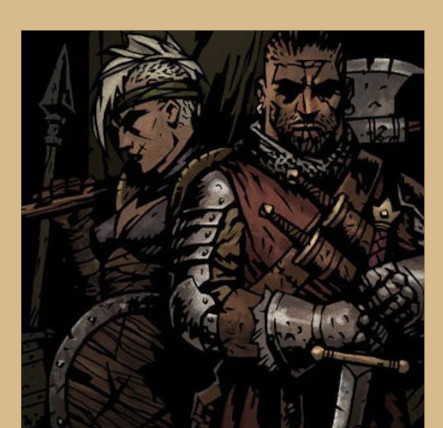
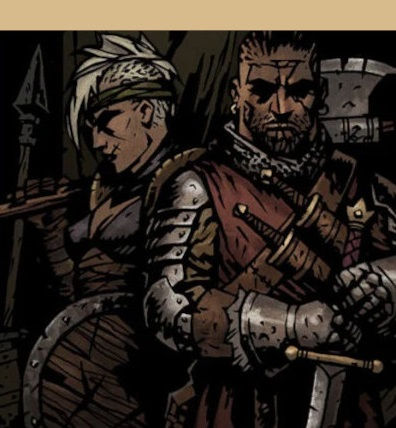
Small Responsive Corrections

diff --git a/Atividade4/style.css b/Atividade4/style.css
@@ -2,6 +2,8 @@
 {
     margin: 0;
     padding: 0;
+	max-width: 100%;
+    overflow-x: hidden;
 }
 
 html
@@ -10,12 +12,13 @@ html
     color: white;
     text-align: center;
     background-color: #d8bb8c;
+	padding: 0.5rem;
 }
 
 .logo {
     width: 4rem;
     height: 4rem;
-    padding: 2rem 0;
+    padding: 2rem 1rem;
     top: 0;
     left: 0;
 }
@@ -27,18 +30,13 @@ header
     flex-wrap: wrap;
 }
 
-body
-{
-    gap: 0;
-}
-
 .banner
 {
     width: 90%;
     height: 90%;
     object-fit: cover;
     object-position: bottom;
-    margin-bottom: 4rem;
+    margin-bottom: 3rem;
     border-radius: 5px;
 }
 
@@ -48,6 +46,7 @@ a
     color: #080808;
     cursor: pointer;
 }
+
 
 .container, .ad
 {
@@ -59,14 +58,10 @@ a
     .column {
       width: 50%;
     }
-    .container, .ad
+    .container, .ad, footer
     {
         flex-wrap: wrap;
         justify-content: center;
-    }
-    aside
-    {
-        width: 200%;
     }
 
   }
@@ -78,20 +73,32 @@ a
     gap: 2rem;
     justify-content: center;
     margin-bottom: 3rem;
+	padding: min(15px, 7%);
 }
 
 .ad 
 {
-    padding: 1rem 0.5rem;
+	justify-content: center;
+	align-content: center;
+	width:100%;
+	object-fit: cover;
+    object-position: bottom;
+}
+
+.divulgacao
+{
+	padding: 0.5rem;
+	align-content: center;
+	text-align; center:
 }
 
 h1, h2
 {
     margin: 30px 0;
     text-align: center;
-    -webkit-text-stroke-width: .3px;
-    -webkit-text-stroke-color: black;
+	color: #080808;
     margin: 2.8rem 0;
+	text-decoration: underline;
 }
 
 .card
@@ -129,10 +136,15 @@ aside p
     text-align: center;
 }
 
+.img-ad
+{
+	width: 100%;
+}
+
 .img-aside
 {
-    width: 10rem;
-    height: 10rem;
+    width: 5rem;
+    height: 5rem;
     padding-top: 4rem;
     margin-bottom: 2rem;
 }
@@ -140,7 +152,6 @@ aside p
 figcaption
 {
     color: #080808;
-
 }
 
 
@@ -159,12 +170,13 @@ em {
 
 blockquote
 {
-    font-size: 1rem;
+    font-size: 0.8rem;
     font-weight: 700;
-    line-height: 4;
+    line-height: 3;
     text-align: justify;
     padding: 1rem;
     color: #080808;
+	text-indent: 10px;
 }
 
 .places
@@ -172,7 +184,8 @@ blockquote
     text-align: center;
     justify-content: center;
     list-style-type: none;
-    line-height: 5;
+    line-height: 3;
+	color: brown;
 }
 
 .emergency
@@ -196,7 +209,7 @@ button
     border-radius: 5px;
     padding: 2rem;
     cursor: pointer;
-    font-size: 2em;
+    font-size: 1.8em;
     border: none;
 }
 

diff --git a/Atividade4/index.html b/Atividade4/index.html
@@ -27,8 +27,7 @@
             <h2>Animal do Dia</h2>
             <figure>
                 <img class="img-aside" src="assets/Dragon-Divisor.png">
-                <figcaption><small>Dragão europeu</small>
-                </figcaption>
+                <figcaption><small>Dragão europeu</small></figcaption>
             </figure>
             <h2>Links úteis</h2>
             <a href="https://www.youtube.com/watch?v=dQw4w9WgXcQ"><strong>Distrator de Monstros</strong></a>
@@ -104,10 +103,10 @@
 
     <article class="ad">
         <section>
-            <img src="assets/M.jpg">
+            <img class="img-ad" src="assets/M.jpg">
         </section>
-        <section>
-            <p><strong>Problemas em sua jornada com <em>Monstros</em> ?</strong></p>
+        <section class="divulgacao">
+            <p><strong>Problemas em sua jornada com <br><em>Monstros</em> ?</strong></p>
             <blockquote>
                 Somos patrocinados pela Guilda dos aventureiros, e teremos o enorme prazer em indicá-los aos maiores especialistas da terra média. Entre em contato conosco, nos locais:
                 <ul class="places">
@@ -117,8 +116,8 @@
                 </ul>
             </blockquote>
         </section>
-        <section>
-            <img src="assets/H.jpg">
+        <section >
+            <img class="img-ad" src="assets/H.jpg">
         </section>
     </article>  
 
@@ -137,11 +136,16 @@
 
     <footer id="rodape">
         <div>
-            <p>Av. Eng. Carlos Reinaldo Mendes, 2015 - Além Ponte, Sorocaba - SP, 18013-280</p>
+            <p>Av. Eng. Carlos Reinaldo Mendes, 2015</p>
+			<p>Além Ponte, Sorocaba - SP, 18013-280</p>
+			<br><br>
             <p>(15) 3238-5266</p>
+			<br><br>
         </div>
         <div>
+			<br>
             <p>&copy;Alessandro. Todos Direitos reservados</p>
+			<br>
         </div>
     </footer>
 
